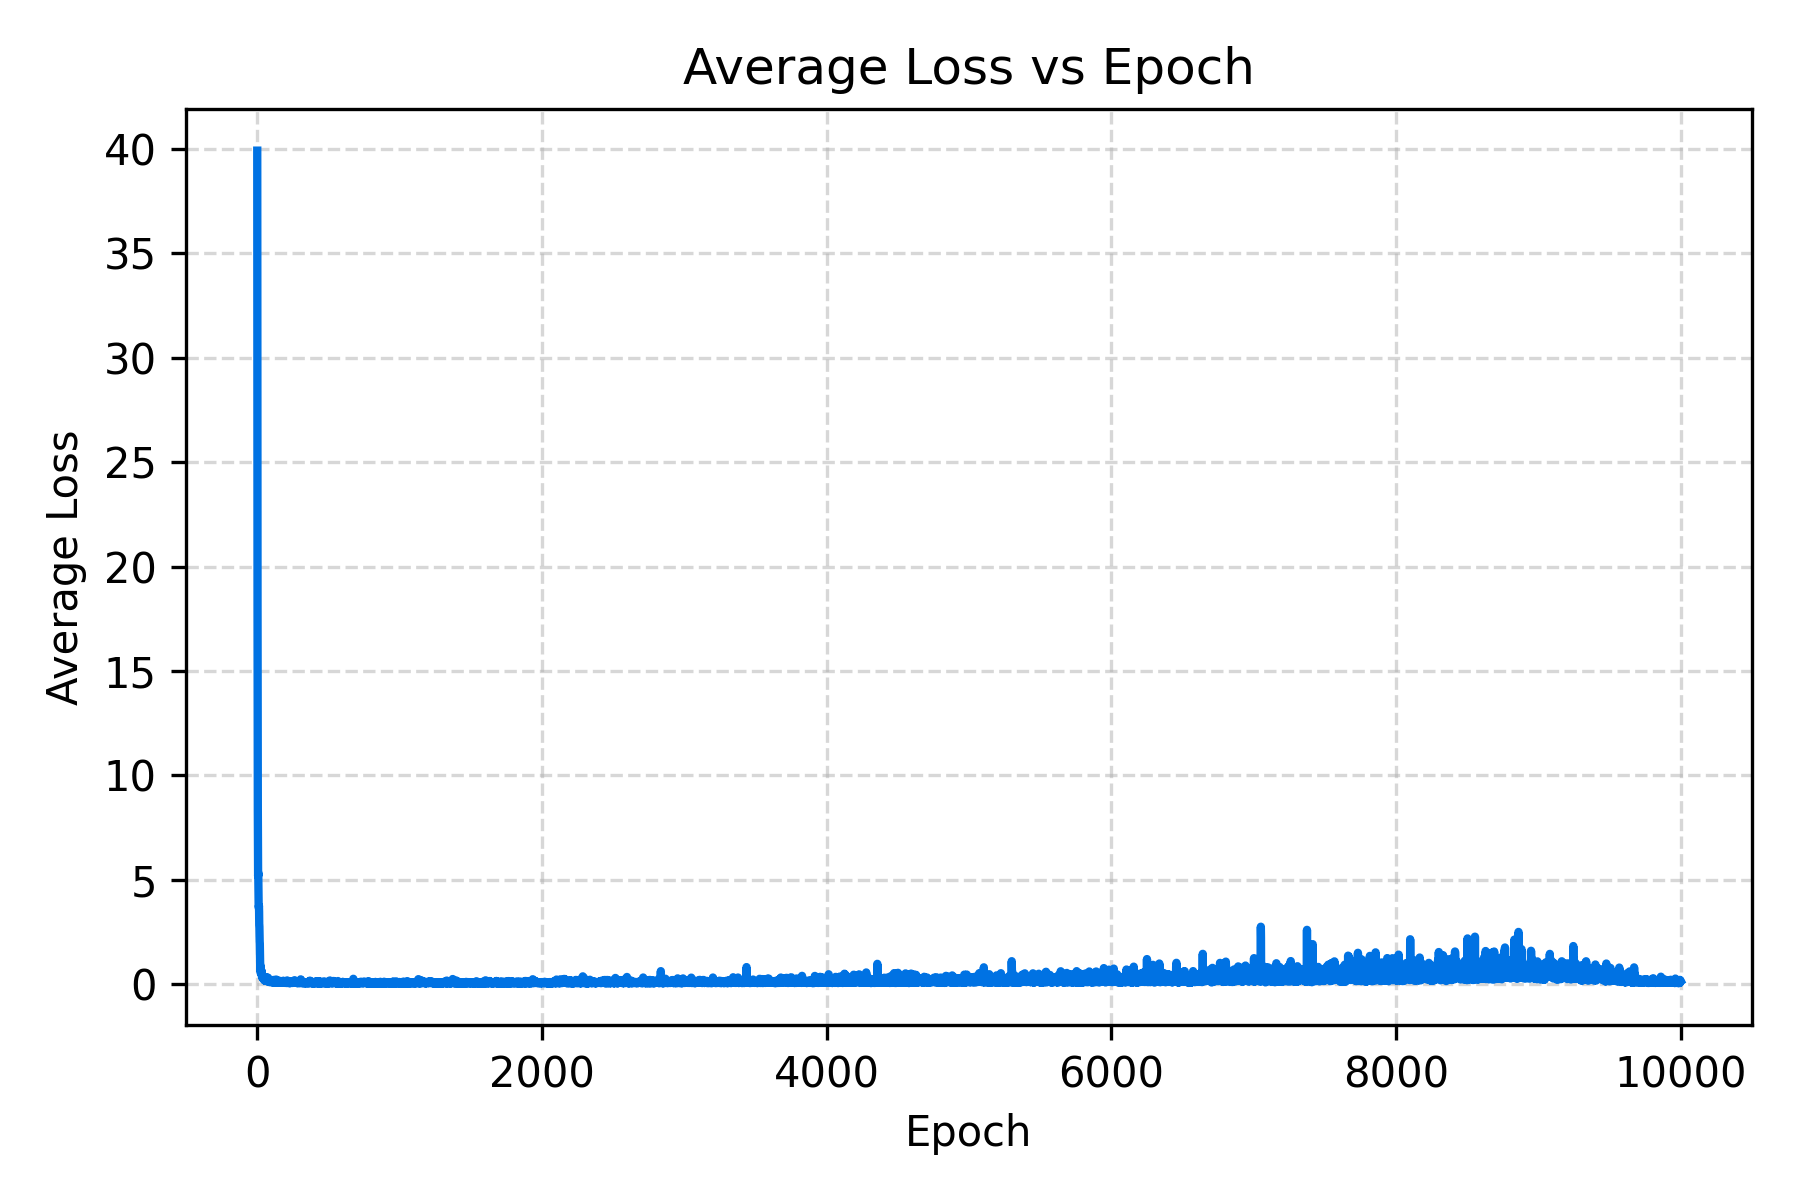
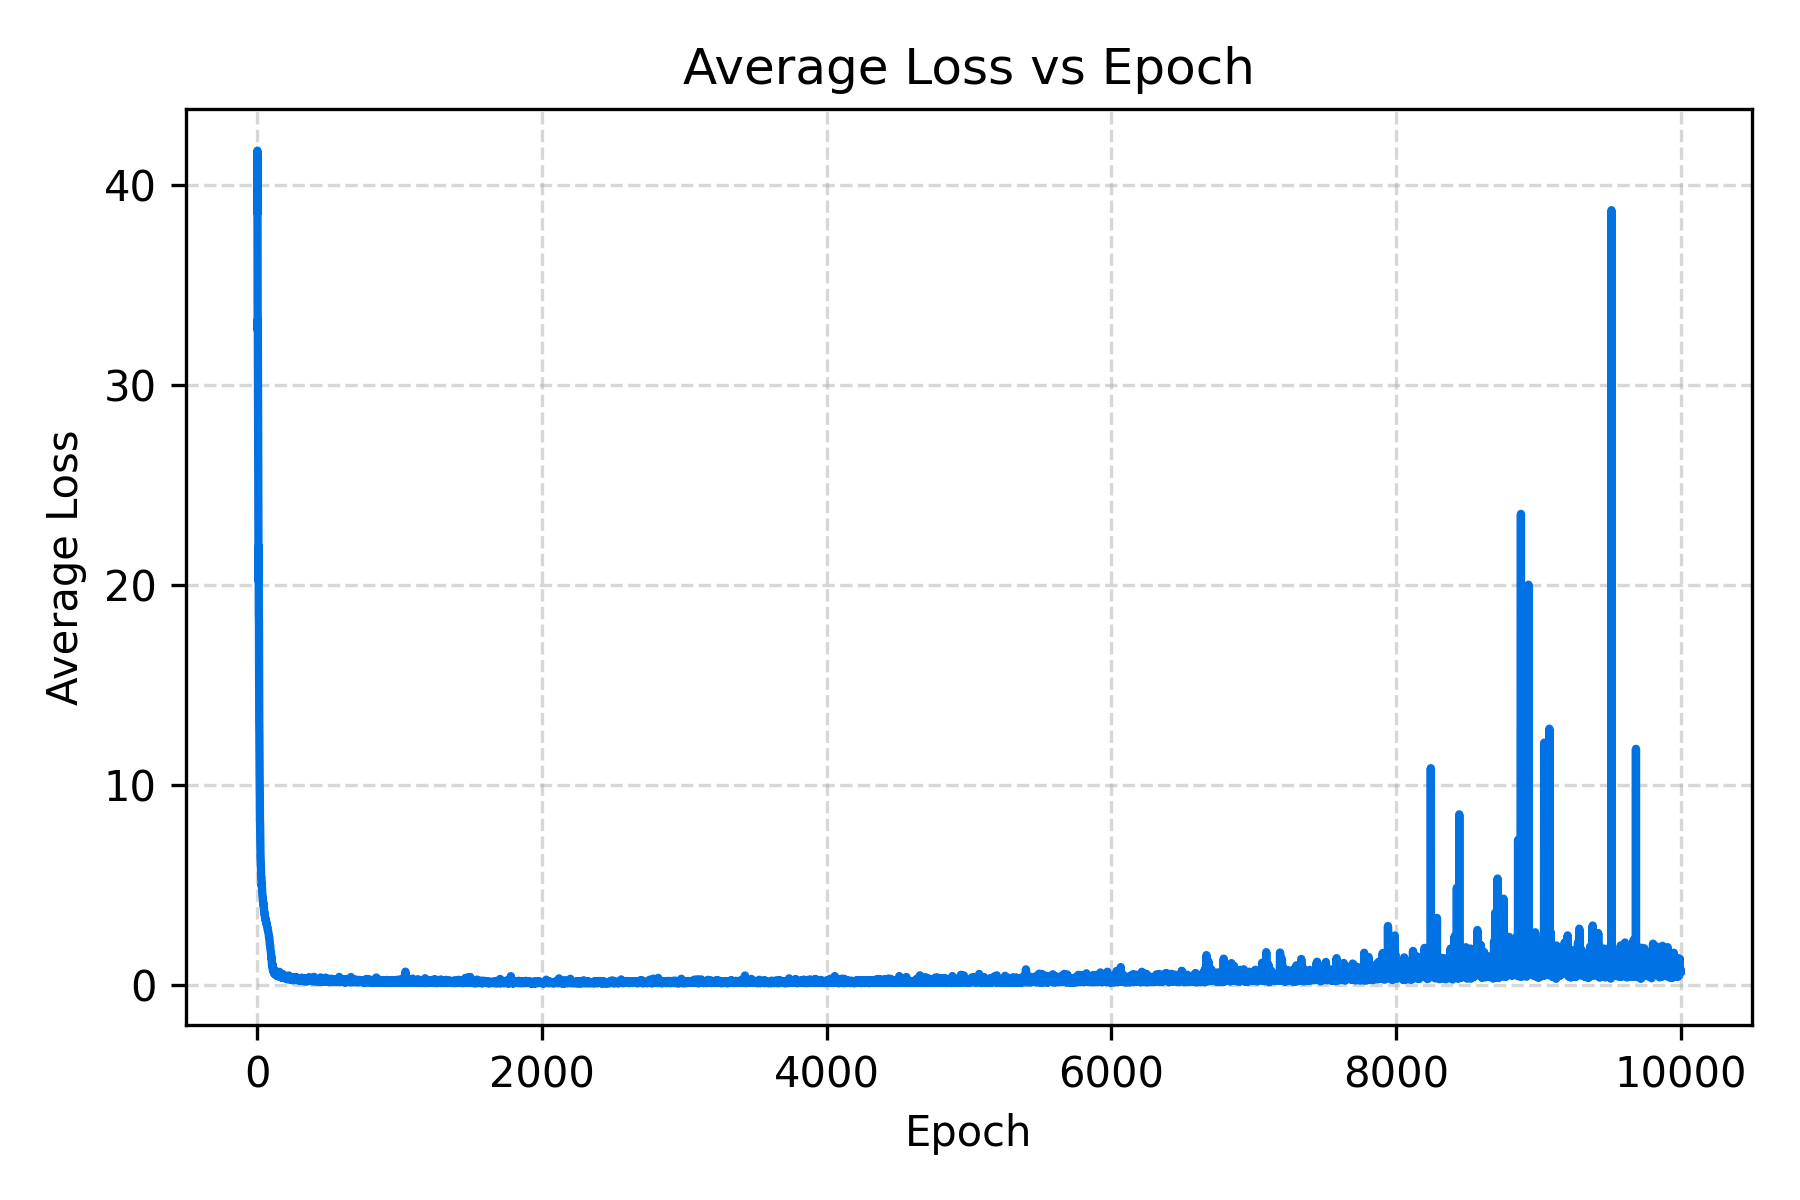
update

diff --git a/_2_cycle_th_rnn_tf.py b/_2_cycle_th_rnn_tf.py
@@ -50,7 +50,7 @@ for seq in raw_seqs:
 # =========================================================
 # 3. Init model
 # =========================================================
-hidden_dim = 16
+hidden_dim = 3
 model = RNN_2D_Customized_Hidden_Space(hidden_dim)
 
 

diff --git a/_8_shape_th_rnn_tf.py b/_8_shape_th_rnn_tf.py
@@ -50,7 +50,7 @@ for seq in raw_seqs:
 # =========================================================
 # 3. Init model
 # =========================================================
-hidden_dim = 16
+hidden_dim = 3
 model = RNN_2D_Customized_Hidden_Space(hidden_dim)
 
 
